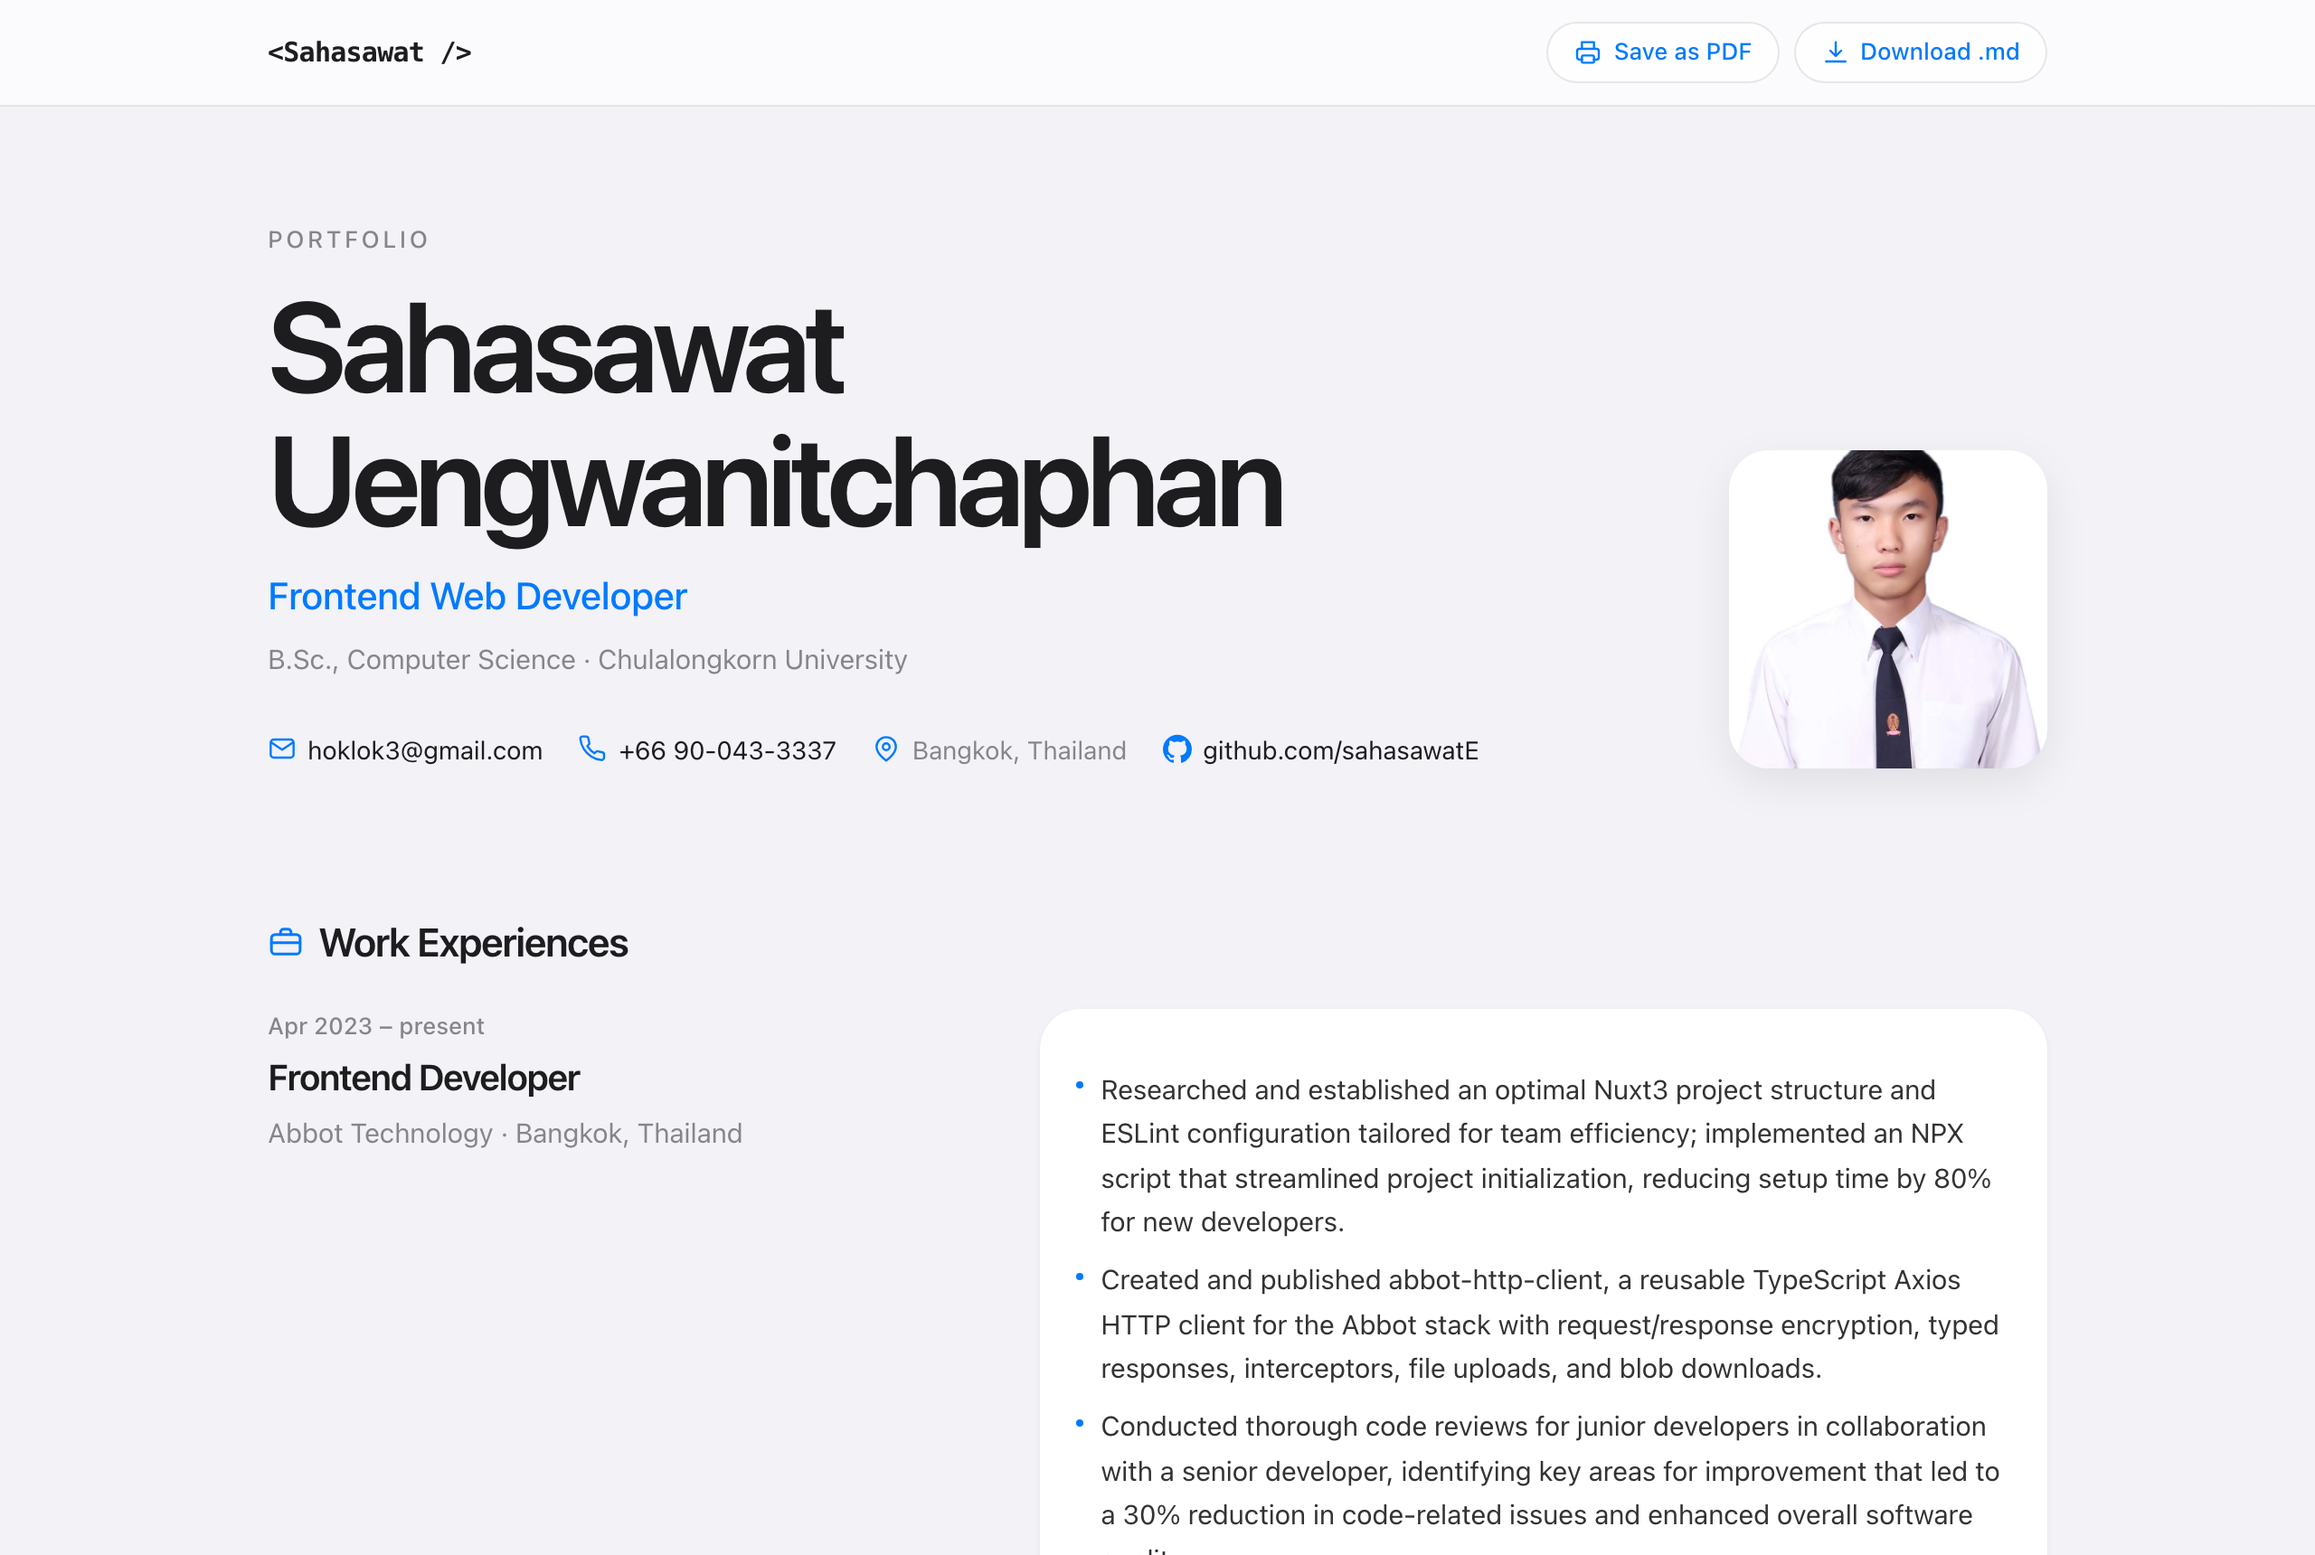
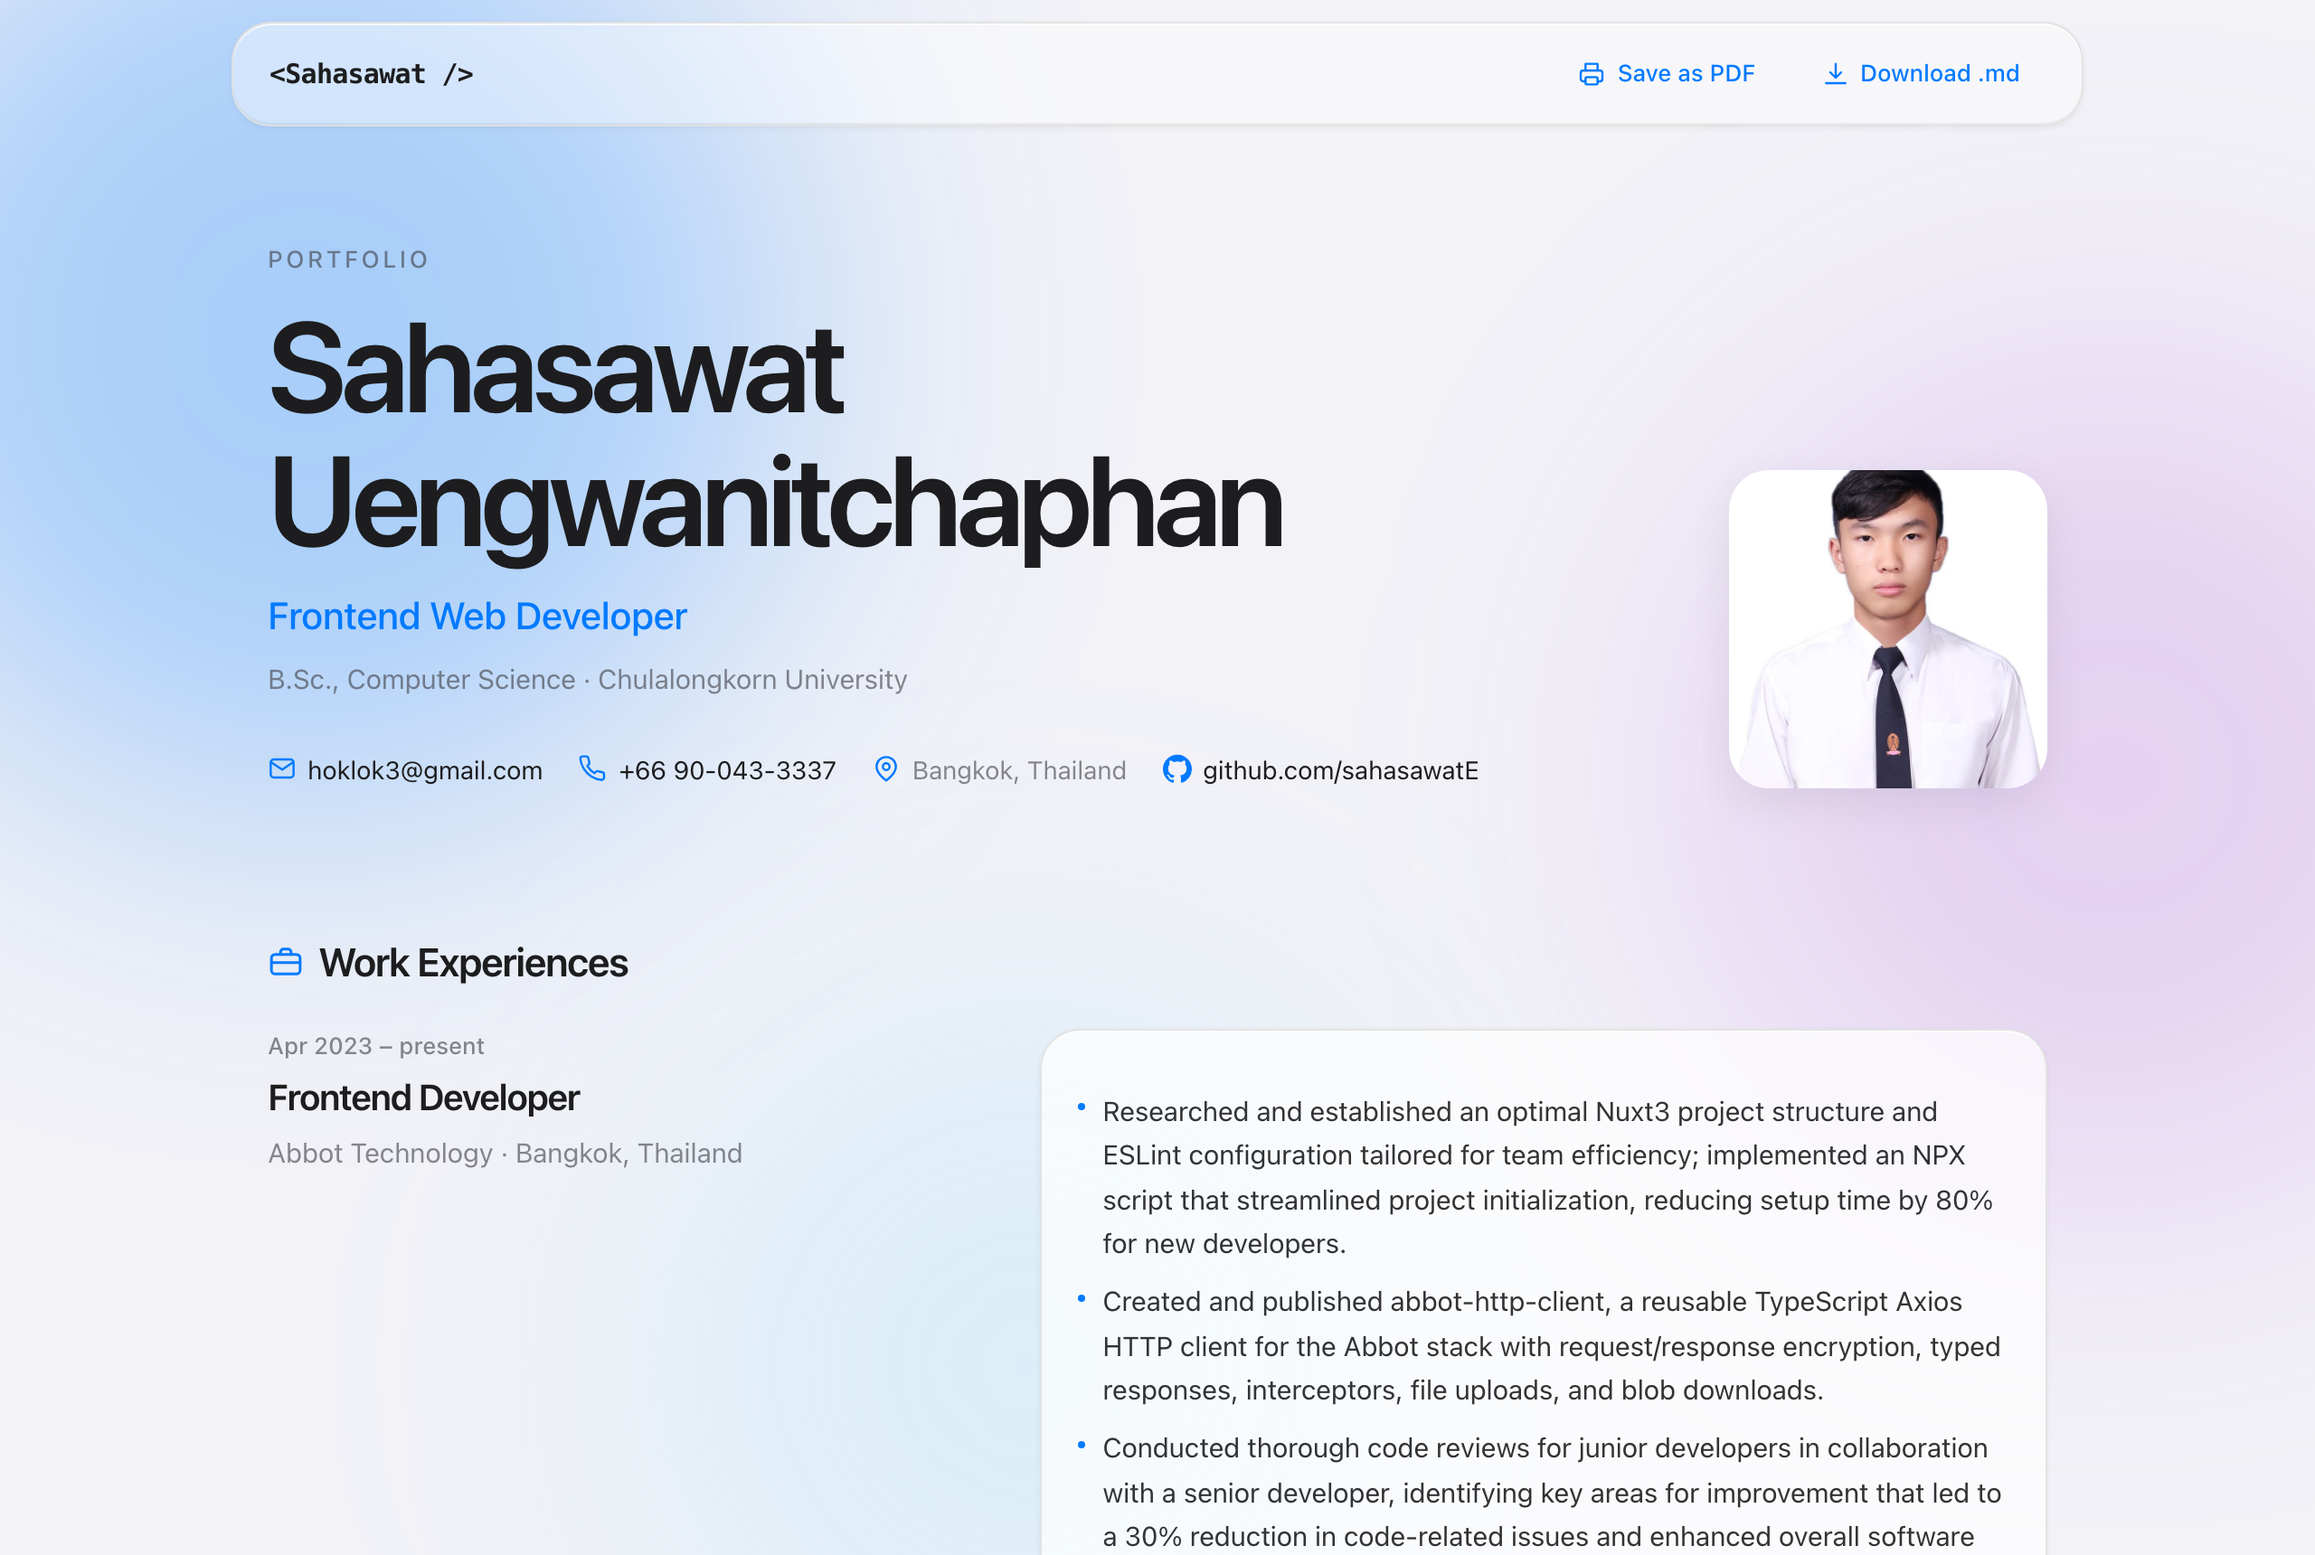
Dim glass borders in dark mode and refresh README screenshots.

diff --git a/src/styles/index.css b/src/styles/index.css
@@ -11,6 +11,8 @@
   --gray6: #f2f2f7;
   --nav: rgba(255, 255, 255, 0.72);
   --print-accent: #1f2937;
+  --glass-border: color-mix(in srgb, #ffffff 70%, var(--label) 12%);
+  --glass-highlight: color-mix(in srgb, #ffffff 78%, transparent);
 }
 
 @media (prefers-color-scheme: dark) {
@@ -23,6 +25,8 @@
     --separator: rgba(84, 84, 88, 0.65);
     --gray6: #2c2c2e;
     --nav: rgba(28, 28, 30, 0.72);
+    --glass-border: color-mix(in srgb, #ffffff 15%, transparent);
+    --glass-highlight: color-mix(in srgb, #ffffff 18%, transparent);
   }
 }
 
@@ -108,9 +112,9 @@ body {
 .glass-panel {
   position: relative;
   background: color-mix(in srgb, var(--surface) 60%, transparent);
-  border: 1px solid color-mix(in srgb, #ffffff 70%, var(--label) 12%);
+  border: 1px solid var(--glass-border);
   box-shadow:
-    inset 0 1px 0 color-mix(in srgb, #ffffff 78%, transparent),
+    inset 0 1px 0 var(--glass-highlight),
     inset 0 -1px 0 color-mix(in srgb, var(--label) 6%, transparent),
     0 1px 3px rgba(0, 0, 0, 0.06);
 }
